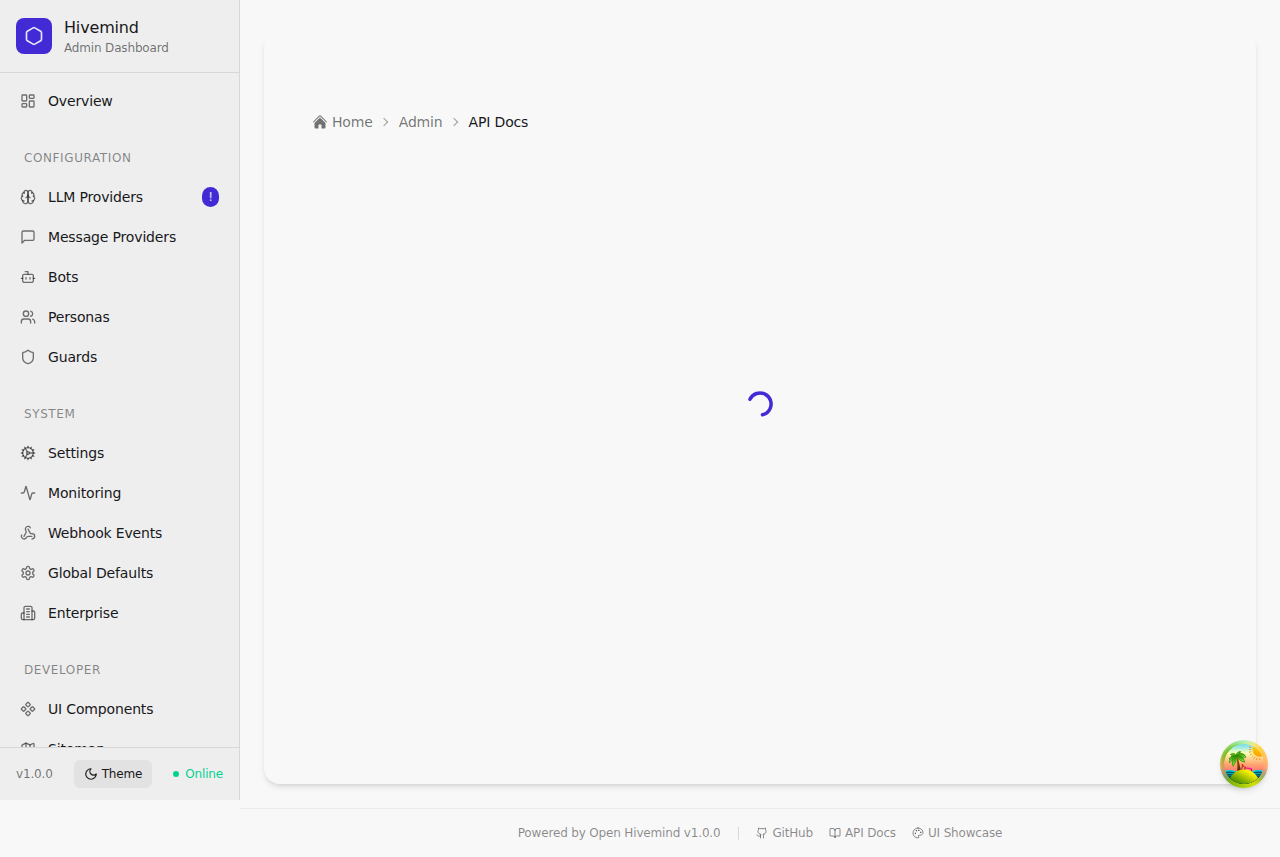
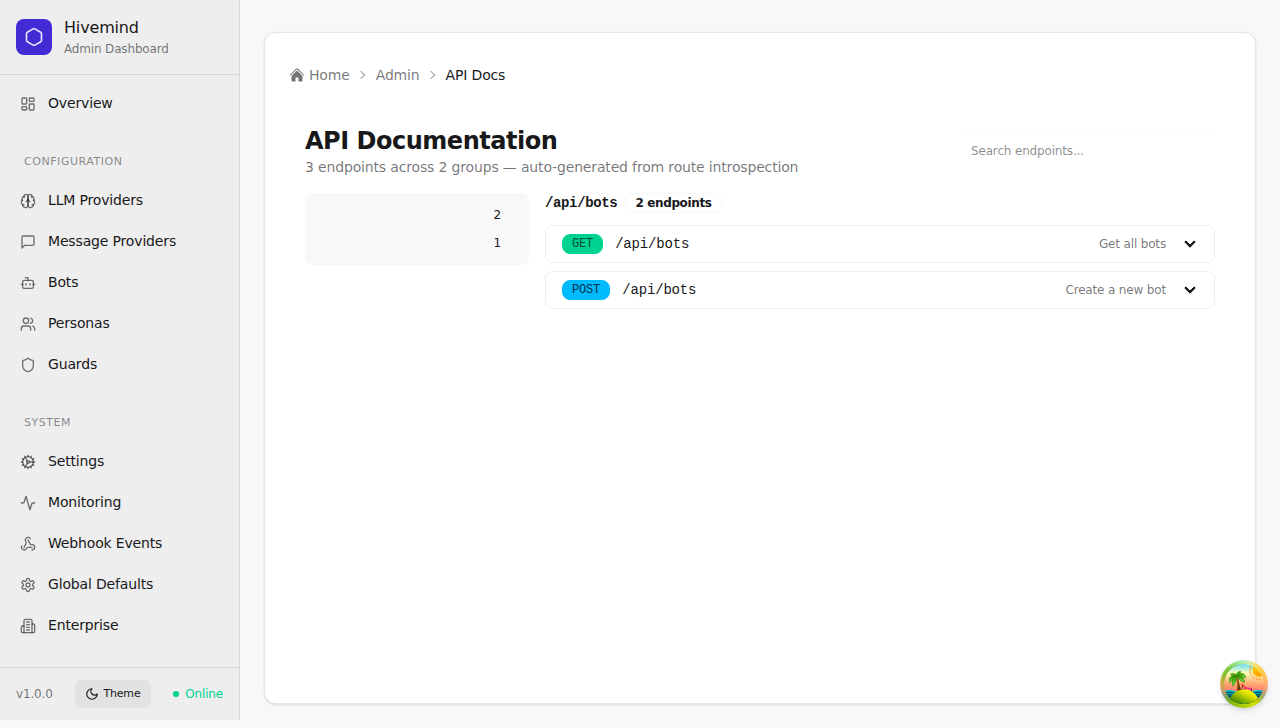
docs: automate API documentation workflow and User Guide screenshots
Adds automated screenshot generation for the API Docs page and expands USER_GUIDE.md. Documentation-only change.

diff --git a/tests/e2e/screenshot-api-docs.spec.ts b/tests/e2e/screenshot-api-docs.spec.ts
@@ -1,8 +1,8 @@
 import { expect, test } from '@playwright/test';
-import { setupAuth } from './test-utils';
+import { navigateAndWaitReady, setupAuth, setupTestWithErrorDetection } from './test-utils';
 
-test.describe('API Docs Screenshots', () => {
-  test('Capture API Docs page screenshot', async ({ page }) => {
+test.describe('API Documentation Page', () => {
+  test.beforeEach(async ({ page }) => {
     // Setup authentication
     await setupAuth(page);
 
@@ -10,20 +10,70 @@ test.describe('API Docs Screenshots', () => {
     await page.route('**/api/health/**', async (route) =>
       route.fulfill({ status: 200, json: { status: 'ok' } })
     );
-    await page.route('**/api/config/**', async (route) => route.fulfill({ status: 200, json: {} }));
 
-    // Go to API Docs page
-    await page.setViewportSize({ width: 1280, height: 800 });
-    await page.goto('/admin/api-docs');
+    // Mock API Docs endpoint
+    await page.route('**/api/docs', async (route) => {
+      await route.fulfill({
+        status: 200,
+        contentType: 'application/json',
+        body: JSON.stringify({
+          success: true,
+          data: {
+            groups: [
+              {
+                prefix: '/api/bots',
+                routes: [
+                  {
+                    method: 'GET',
+                    path: '/api/bots',
+                    middleware: ['auth'],
+                    description: 'Get all bots',
+                    tag: 'bots'
+                  },
+                  {
+                    method: 'POST',
+                    path: '/api/bots',
+                    middleware: ['auth', 'validate'],
+                    description: 'Create a new bot',
+                    tag: 'bots'
+                  }
+                ]
+              },
+              {
+                prefix: '/api/config',
+                routes: [
+                  {
+                    method: 'GET',
+                    path: '/api/config',
+                    middleware: ['auth'],
+                    description: 'Get system config',
+                    tag: 'config'
+                  }
+                ]
+              }
+            ]
+          }
+        })
+      });
+    });
+  });
 
-    // Wait for the page to load
-    // The page uses a Swagger UI element which might not use an h1 heading with 'API Documentation'
-    // when loaded inside an iframe or dynamically. Wait for a known element or wait for load state.
-    await page.waitForLoadState('domcontentloaded');
-    await page.waitForTimeout(1000); // Wait for potential iframe/swagger initialization
+  test('Capture API Docs Page', async ({ page }) => {
+    await setupTestWithErrorDetection(page);
 
-    // Screenshot
-    await page.waitForLoadState('domcontentloaded');
+    // Navigate to API Docs page (from AppRouter.tsx path)
+    await navigateAndWaitReady(page, '/admin/api-docs');
+
+    // Wait for the header to appear
+    await page.waitForSelector('h1:has-text("API Documentation")', { timeout: 10000 });
+
+    // Wait for route cards to appear
+    await page.waitForSelector('.collapse-title');
+
+    // Take screenshot
     await page.screenshot({ path: 'docs/screenshots/api-docs-page.png', fullPage: true });
+
+    // Verify content exists
+    await expect(page.locator('h2 code').first()).toHaveText('/api/bots');
   });
 });

diff --git a/docs/USER_GUIDE.md b/docs/USER_GUIDE.md
@@ -33,6 +33,7 @@ Welcome to the Open-Hivemind User Guide. This document provides a detailed walkt
 - [AI & Analytics](#ai--analytics)
   - [Integrations](#integrations)
 - [Developer & Tools](#developer--tools)
+  - [API Documentation](#api-documentation)
 - [Documentation Maintenance](#documentation-maintenance)
 
 ---
@@ -203,7 +204,6 @@ Browse, install, and manage extensions and packages for your application.
 *   **Install from URL**: Manually install a custom package by providing its GitHub repository URL.
 ![Install from URL Modal](screenshots/marketplace-install-modal.png)
 *   **Filter & Manage**: Easily filter available packages by type (e.g., LLM, Tool) and update or uninstall existing ones.
-
 ---
 
 ## System
@@ -370,6 +370,15 @@ A detailed view of all system integrations and configurations.
 ### [UI Components](/admin/showcase)
 A reference for developers extending the WebUI.
 *   **Component Library**: View available UI elements (buttons, inputs, cards) and their usage.
+
+### [API Documentation](/admin/api-docs)
+View dynamic API documentation generated from route introspection.
+
+![API Docs Page](screenshots/api-docs-page.png)
+
+*   **Endpoint Browser**: Navigate through available API endpoints categorized by groups.
+*   **Live Testing**: Test API calls directly from the browser with request bodies and parameters.
+*   **cURL Examples**: Automatically generated cURL commands for each endpoint.
 
 ### [System Backups & Export](/admin/export)
 Manage system configuration backups and download API documentation.
